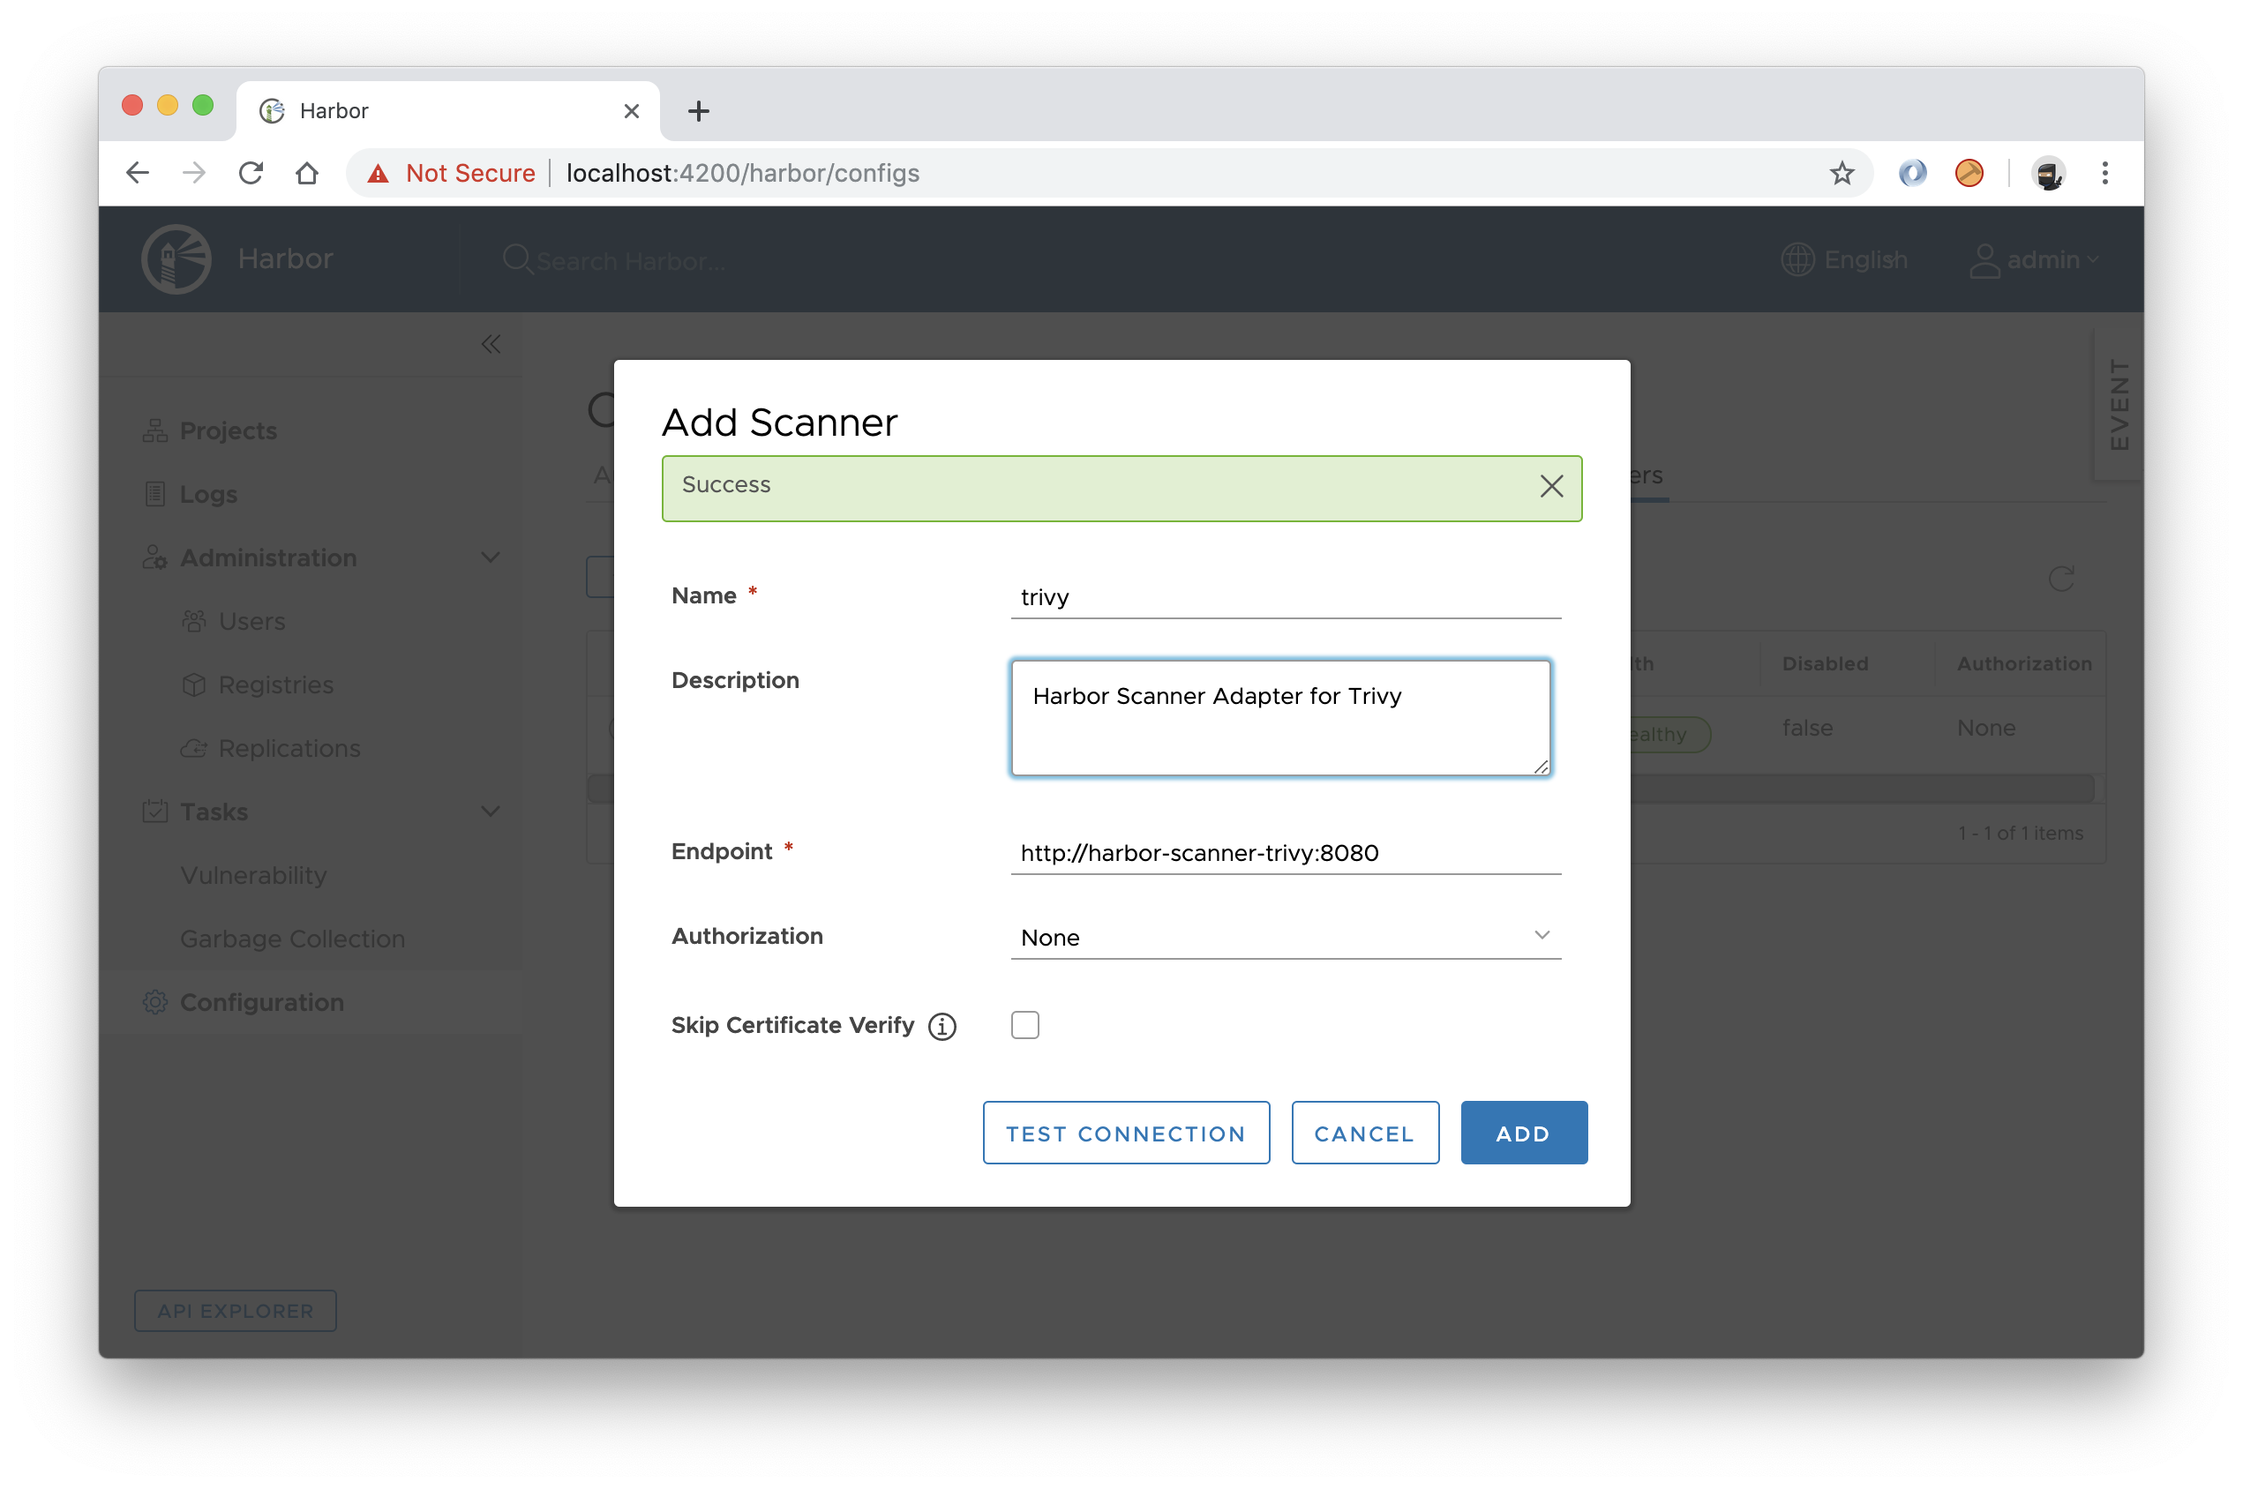
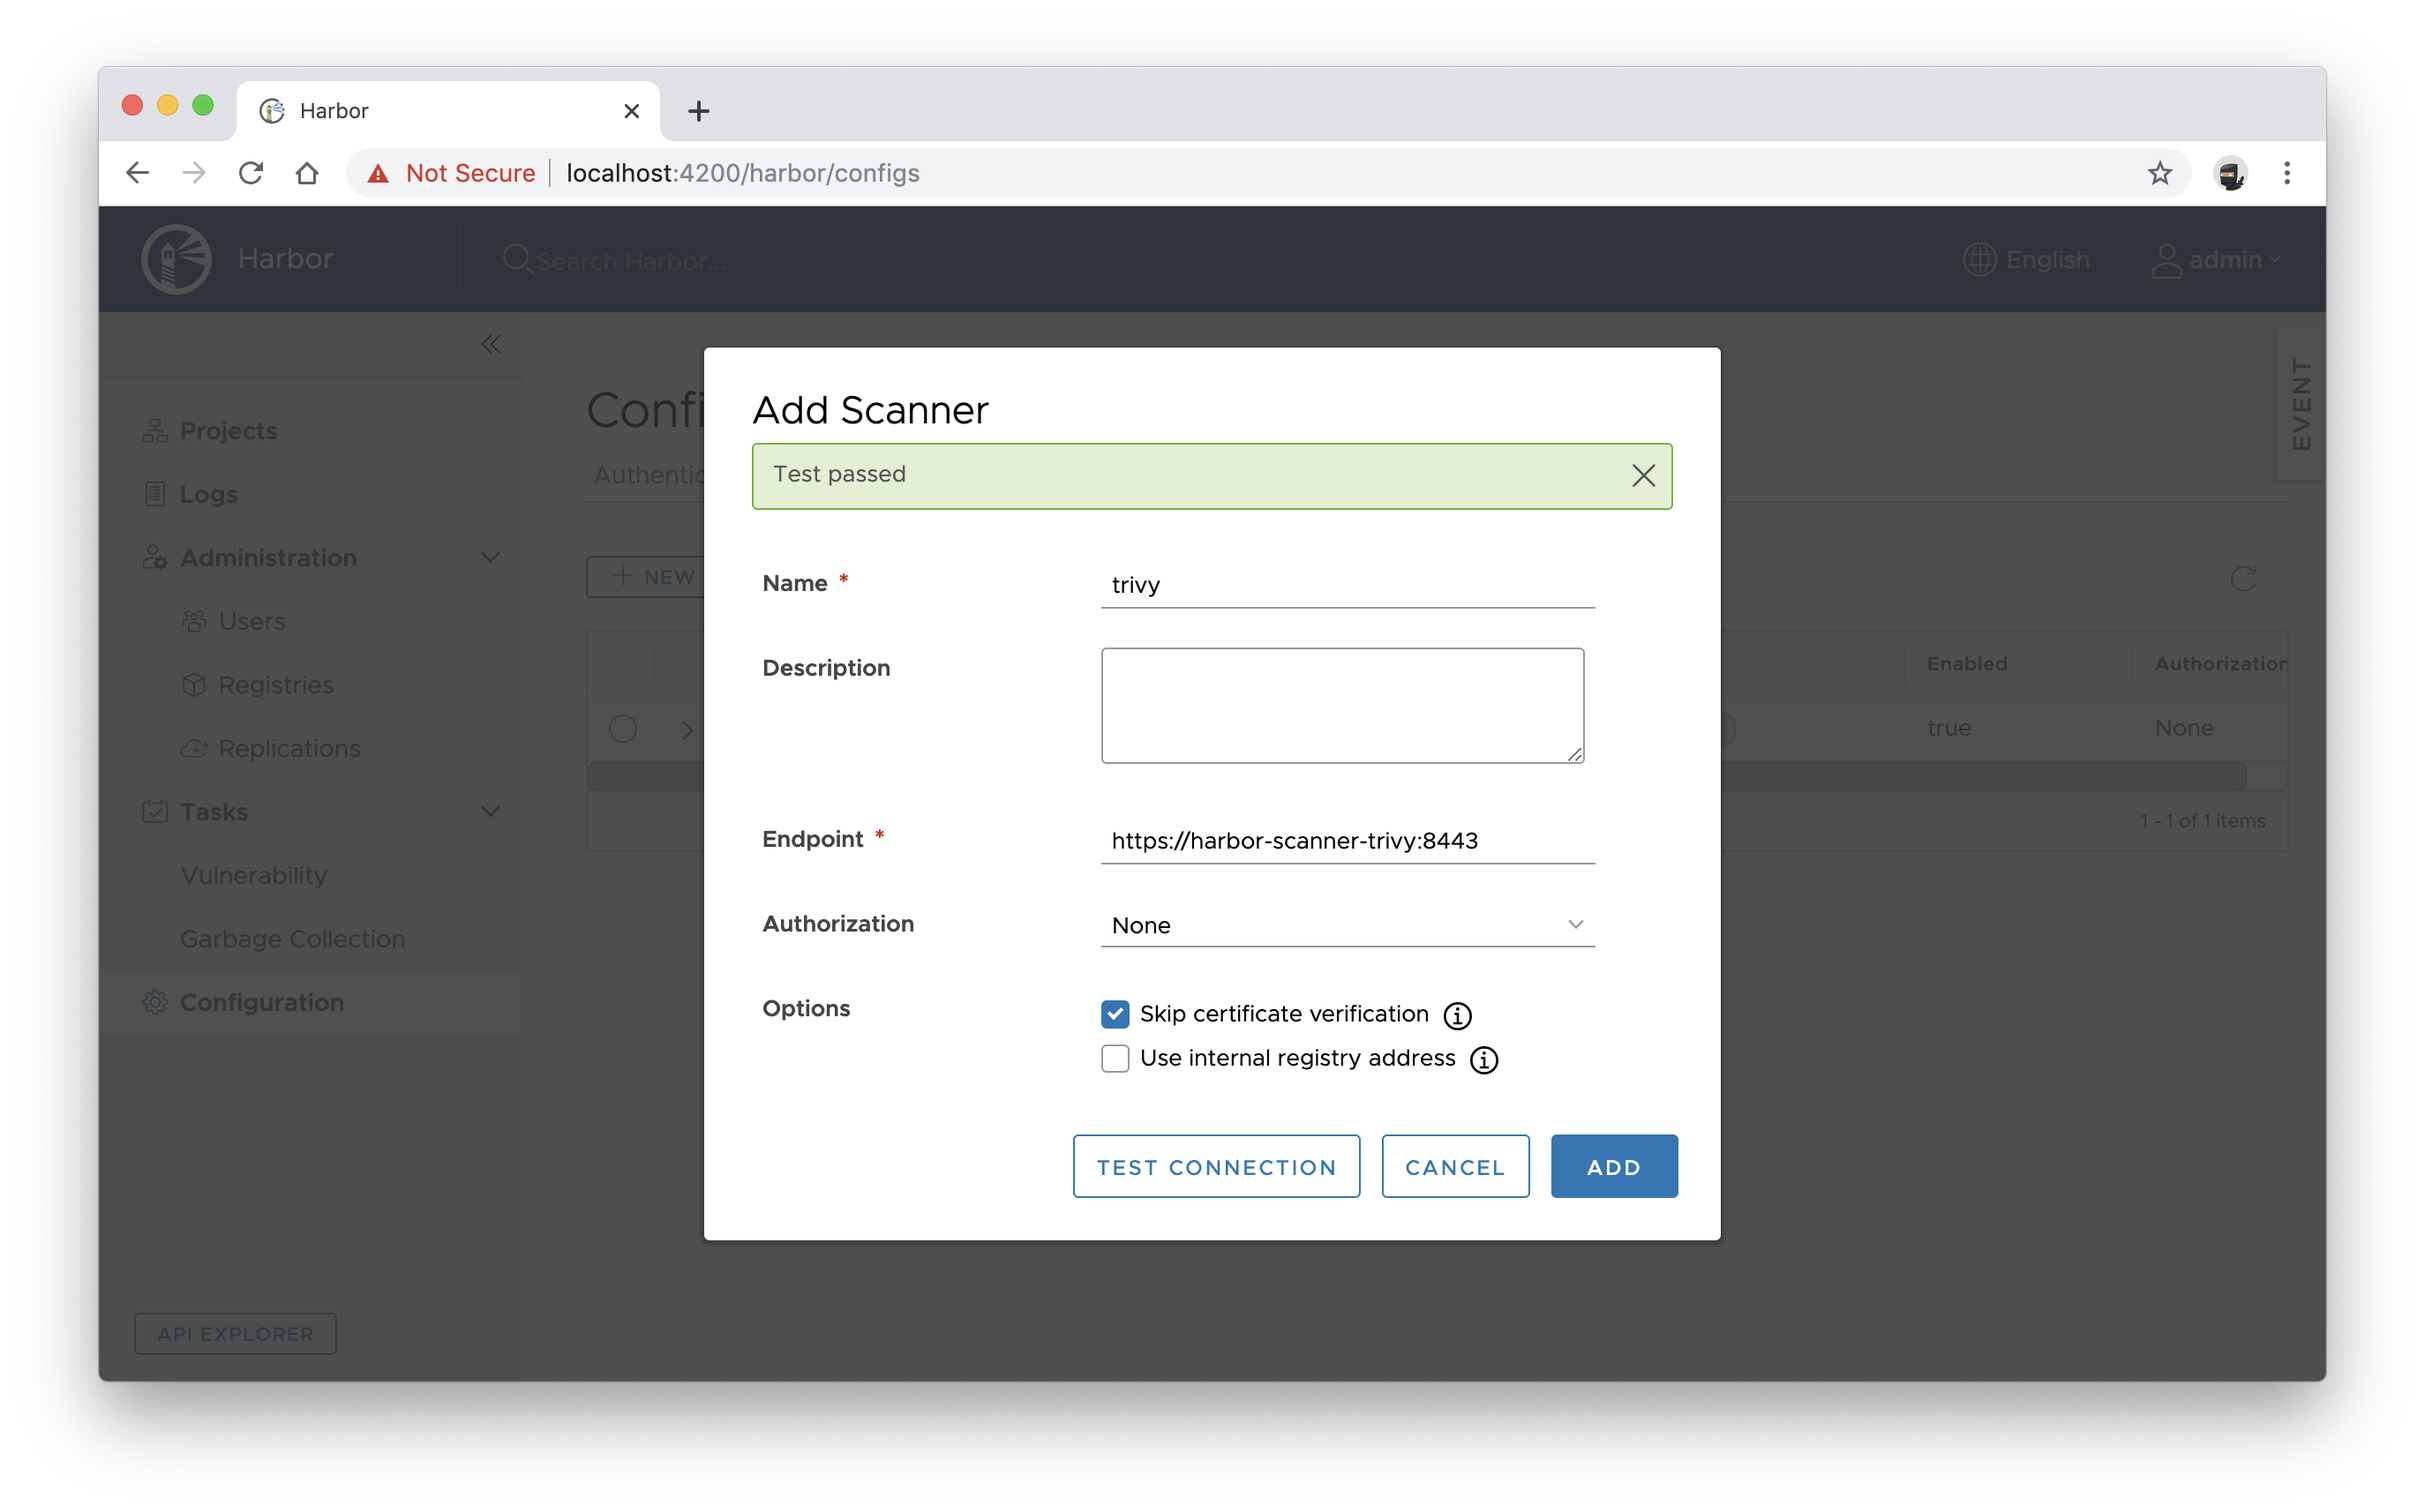
chore: Update Docker image in K8S deployments (#47)

Changed region(s): [[0.2486, 0.2156, 0.7459, 0.8318], [0.0311, 0.0308, 0.404, 0.9242], [0.808, 0.0924, 0.9634, 0.9242]]

diff --git a/README.md b/README.md
@@ -159,6 +159,7 @@ docker-compose -f test/component/docker-compose.yaml down
    > By default the StatefulSet refers to the latest release image published to [Docker Hub][latest-release-url].
 3. Configure the scanner adapter in Harbor web console.
    1. Navigate to **Configuration** and select the **Scanners** tab and then click **+ NEW SCANNER**.
+      ![Scanners config](docs/images/harbor_ui_scanners_config.png)
    2. Enter https://harbor-scanner-trivy:8443 as the Endpoint URL and click **TEST CONNECTION**.
       ![Add scanner](docs/images/harbor_ui_add_scanner.png)
    3. If everything is fine click **ADD** to save the configuration.
